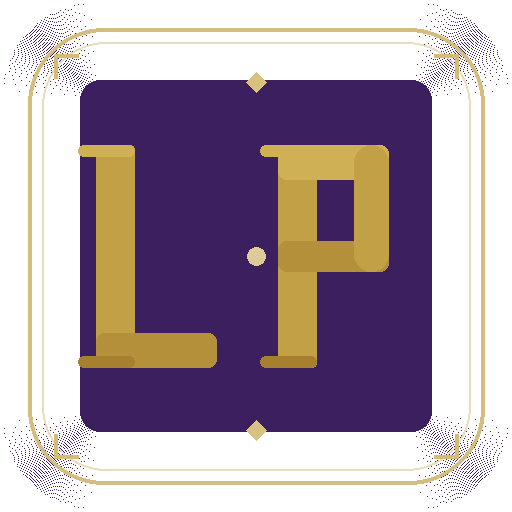
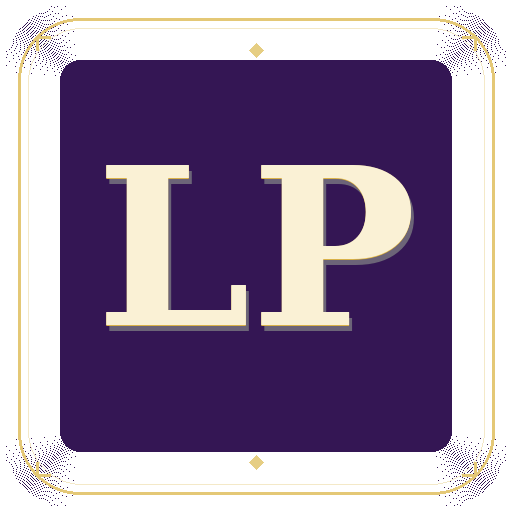
Add files via upload
Updates to icon and mobile formatting

diff --git a/index.html b/index.html
@@ -681,12 +681,12 @@
   /* ── MOBILE (< 768px) ── */
   @media (max-width: 767px) {
     /* Nav bar */
-    .nav-bar { flex-wrap: wrap; gap: 6px; padding: 8px 10px; }
-    .nav-tabs { order: 3; width: 100%; justify-content: center; gap: 2px; }
-    .nav-tab { padding: 5px 10px; font-size: 11px; }
-    .hdr-color-area { flex: 1; }
-    .auth-area { gap: 6px; }
-    .auth-btn { padding: 5px 8px; font-size: 11px; }
+    .nav-bar { flex-wrap: nowrap; gap: 4px; padding: 6px 10px; }
+    .nav-tabs { display: none; } /* hidden — use bottom nav */
+    .hdr-color-area { flex: 1; min-width: 0; }
+    .nav-brand { font-size: 13px; white-space: nowrap; overflow: hidden; text-overflow: ellipsis; }
+    .auth-area { gap: 4px; flex-shrink: 0; }
+    .auth-btn { padding: 5px 8px; font-size: 11px; white-space: nowrap; }
     .save-status { font-size: 10px; }
     .auth-btn.sync { display: none; } /* hide sync btn — use mobile sync in bottom sheet */
 
@@ -697,8 +697,9 @@
 
     /* Main content stacks */
     .main-content { flex-direction: column; overflow: visible; padding-bottom: 64px; }
-    /* main-panel hidden only on weekly planner — monthly/habit need it */
     .main-panel { overflow: visible; }
+    /* Hide weekly desktop panel on mobile — replaced by mobile-day-view */
+    .weekly-main-panel { display: none !important; }
 
     /* ── Mobile day view ── */
     .mobile-day-view { display: flex; flex-direction: column; flex: 1; min-height: 0; }
@@ -795,8 +796,7 @@
     .mobile-bottom-nav-btn.active { color: var(--accent); }
     .mobile-bottom-nav-btn .icon { font-size: 18px; }
 
-    /* hide top nav tabs on mobile — use bottom nav instead */
-    .nav-tabs { display: none; }
+
 
 
 
@@ -1438,7 +1438,7 @@ function WeeklyPlanner({ weekData, setWeekData, onGoToHabit, calHeaderColor, set
 
 
       {/* MAIN */}
-      <div className="main-panel">
+      <div className="main-panel weekly-main-panel">
         <div className="weekly-calendar">
           <div className="cal-scroll-wrapper">
             <div className="cal-grid">
@@ -2659,7 +2659,7 @@ function App() {
     <div className="app">
       <div className="nav-bar" style={{background: navColor}}>
         <div className="hdr-color-area">
-          <span className="nav-brand">✦ Planner & Tracker</span>
+          <span className="nav-brand">✦ LP Planner</span>
           <ColorPickerPopover color={navColor} onChange={setNavColor} />
         </div>
         <div className="nav-tabs">
